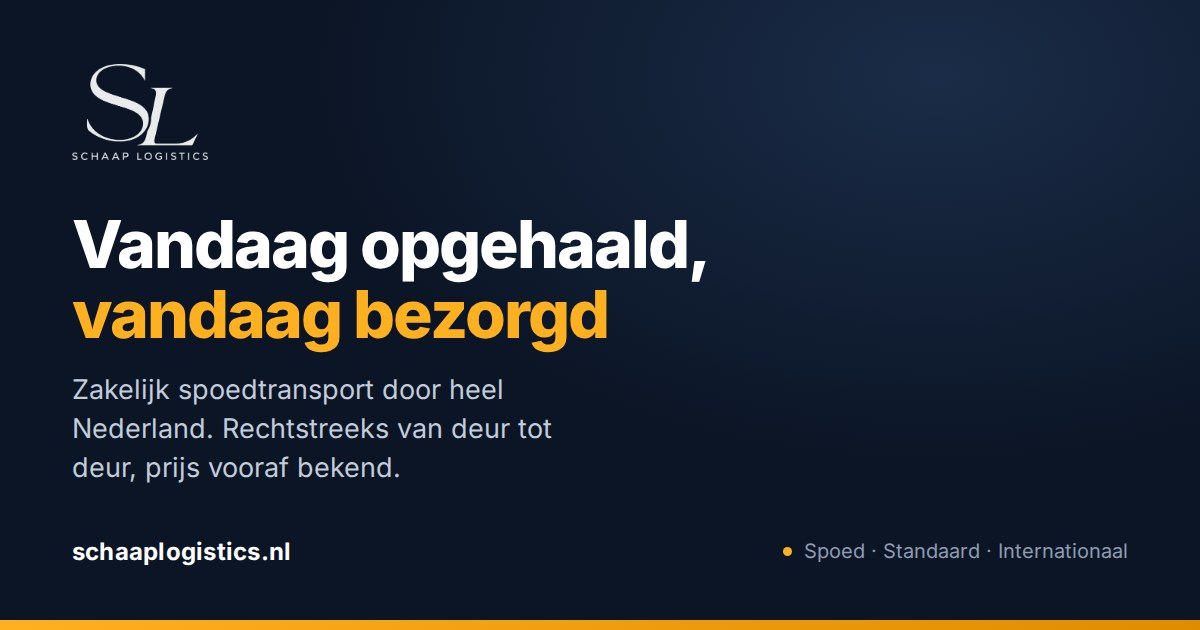
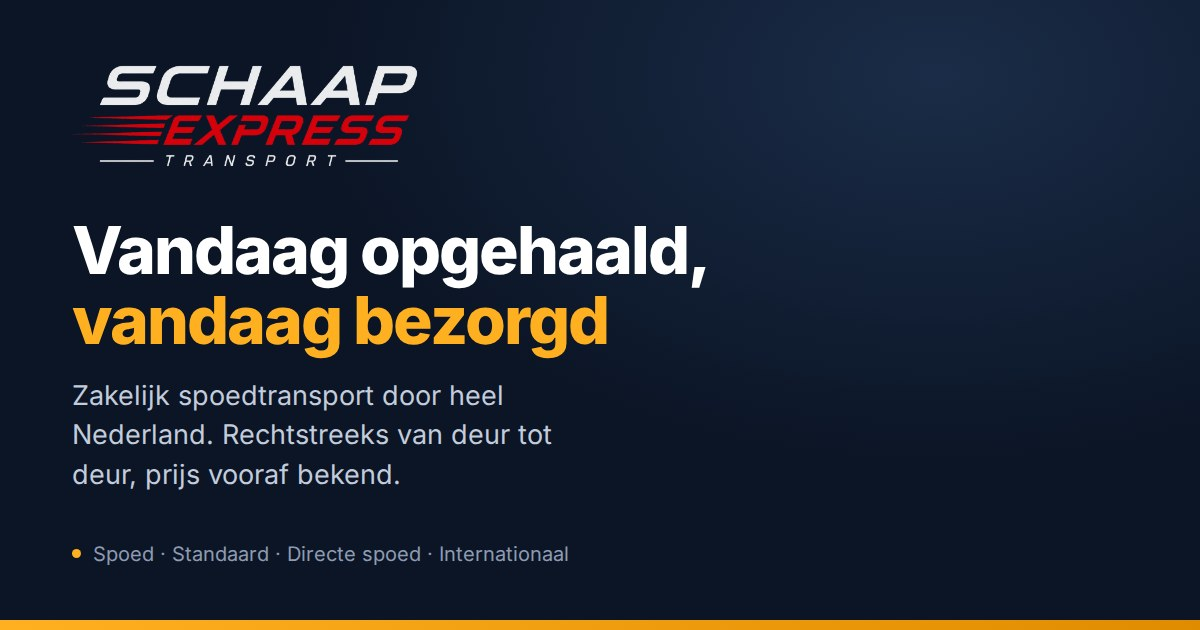
Zet het nieuwe woordmerk in de site
Het logo is geen monogram meer maar een woordmerk, en dat vraagt een andere kop.
De losse bedrijfsnaam naast het beeldmerk is weg: die stond er twee keer zodra
het logo zelf de naam draagt.

Uit het aangeleverde bestand zijn vier versies gemaakt. Het wit weghalen gaat op
dekking en niet op kleur, zodat de randen glad blijven en er geen witte rand om
de rode letters valt:

- logo-schaap-express-wit.png, het hele merk in wit, voor de voettekst en de
  twee portalen
- logo-schaap-express.png, hetzelfde donker, bovenaan de factuur
- de twee kop-versies zonder de regel TRANSPORT. In de menubalk staat het logo
  32 pixels hoog, en die regel is dan nog geen twee pixels: dat is geen tekst
  meer maar vuil. De voettekst heeft de ruimte wel en draagt het hele merk.

Het tabbladpictogram was nog het SL-monogram. Nu een witte S met de rode
snelheidsstrepen uit het logo, op het donkerblauw van de site; nagekeken op 16,
32 en 128 pixels. De bron staat ernaast zodat hij te vervangen is.

Het deelplaatje is opnieuw gemaakt met het nieuwe logo. Het adres staat er nog
niet op, want het domein ligt nog niet vast; de dienstenregel staat zolang links
onderin zodat de kaart in balans blijft.

De vier oude logobestanden zijn weg. Ze werden nergens meer gebruikt en tonen
een merk dat niet meer bestaat.

125 schermtests, 98 portaaltests, 37 klanttests en alle Worker-tests groen. Een
test keek nog naar de bedrijfsnaam als tekst in de balk; die controleert nu of
[…]

diff --git a/assets/site.css b/assets/site.css
@@ -91,10 +91,12 @@ header{
 }
 .nav{display:flex;align-items:center;gap:28px;height:72px}
 .brand{display:flex;align-items:center;gap:11px;text-decoration:none;margin-right:30px}
-/* Het beeldmerk uit de huisstijl. Wit, want header en footer zijn donker. */
-.brand__mark{height:34px;width:auto;flex:none;display:block}
-.brand__name{display:block;color:#fff;font-weight:800;font-size:1.06rem;letter-spacing:-.02em;line-height:1.15}
-.brand__sub{display:block;color:#7f90aa;font-size:.68rem;font-weight:600;letter-spacing:.09em;text-transform:uppercase}
+/* Het woordmerk uit de huisstijl, in de witte uitvoering omdat de menubalk en
+   de voettekst donker zijn. In de menubalk staat de korte versie zonder de
+   regel TRANSPORT: die is daar minder dan twee pixels hoog en dan is het geen
+   tekst meer maar vuil. De voettekst heeft de ruimte voor het hele logo. */
+.brand__mark{height:32px;width:auto;flex:none;display:block}
+footer .brand__mark{height:46px}
 /* De links staan links, naast het logo, en duwen de knoppen naar rechts. Een
    menu dat je van links naar rechts leest hoort ook links te beginnen. */
 .nav__links{display:flex;gap:4px;list-style:none;margin-right:auto}
@@ -493,26 +495,24 @@ footer a:hover{color:var(--amber)}
 @media (max-width:620px){
   .grid--3,.grid--4,.grid--2,.field-row{grid-template-columns:1fr}
   .footer__grid{grid-template-columns:1fr}
-  .brand__sub{display:none}
   .nav__phone span{display:none}
-  /* De bovenbalk is hier krap: logo, naam, telefoon en de menuknop met het
-     woord erbij. Zonder deze regels breekt de bedrijfsnaam over twee regels en
-     wordt de balk twee keer zo hoog. */
-  header .brand__name{white-space:nowrap;font-size:.95rem}
+  /* De bovenbalk is hier krap: logo, telefoon en de menuknop met het woord
+     erbij. Het woordmerk krimpt mee zodat er niets af hoeft. */
   header .brand{gap:8px}
-  header .brand__mark{height:28px}
+  header .brand__mark{height:26px}
+  footer .brand__mark{height:40px}
   .nav__toggle{padding:8px 10px;gap:5px}
   .hero{padding:56px 0 52px}
   .calc{padding:22px}
   .step{grid-template-columns:44px 1fr;gap:14px}
 }
 
-/* Een heel smalle telefoon (320px, een oude SE). Logo, naam, telefoon en de
-   menuknop met het woord erbij passen er net niet naast elkaar; met wat minder
-   marge en een iets kleinere naam wel, en dan hoeft er niets weg. */
+/* Een heel smalle telefoon (320px, een oude SE). Logo, telefoon en de menuknop
+   met het woord erbij passen er net niet naast elkaar; met wat minder marge en
+   een iets kleiner woordmerk wel, en dan hoeft er niets weg. */
 @media (max-width:360px){
   header .wrap{padding-left:12px;padding-right:12px}
-  header .brand__name{font-size:.88rem}
+  header .brand__mark{height:22px}
   header .brand{gap:7px}
   header .nav{gap:8px}
   .nav__phone{padding-left:10px;padding-right:10px}

diff --git a/assets/deelkaart-bron.html b/assets/deelkaart-bron.html
@@ -15,7 +15,7 @@ body{width:1200px;height:630px;overflow:hidden;
 body::after{content:"";position:absolute;left:0;right:0;bottom:0;height:10px;
   background:linear-gradient(90deg,#ffb020 0%,#e08c00 100%)}
 .kop{display:flex;align-items:center;gap:22px}
-.kop img{height:96px;width:auto;display:block}
+.kop img{height:104px;width:auto;display:block}
 h1{font-size:66px;line-height:1.06;letter-spacing:-.03em;font-weight:800;max-width:16ch}
 h1 em{font-style:normal;color:#ffb020}
 p.sub{margin-top:20px;font-size:27px;line-height:1.45;color:#c3ccdb;max-width:30ch;font-weight:400}
@@ -24,13 +24,14 @@ p.sub{margin-top:20px;font-size:27px;line-height:1.45;color:#c3ccdb;max-width:30
 .merk{display:flex;gap:12px;align-items:center;color:#8e9bb2;font-size:20px}
 .punt{width:9px;height:9px;border-radius:50%;background:#ffb020;display:inline-block}
 </style></head><body>
-<div class="kop"><img src="logo-volledig-wit.png" alt=""></div>
+<div class="kop"><img src="logo-schaap-express-wit.png" alt=""></div>
 <div>
   <h1>Vandaag opgehaald, <em>vandaag bezorgd</em></h1>
   <p class="sub">Zakelijk spoedtransport door heel Nederland. Rechtstreeks van deur tot deur, prijs vooraf bekend.</p>
 </div>
+<!-- Links komt straks het domein te staan; zolang dat er niet is, staat de
+     dienstenregel daar en blijft de kaart in balans. -->
 <div class="voet">
-  <span class="domein">schaaplogistics.nl</span>
-  <span class="merk"><span class="punt"></span> Spoed &middot; Standaard &middot; Internationaal</span>
+  <span class="merk"><span class="punt"></span> Spoed &middot; Standaard &middot; Directe spoed &middot; Internationaal</span>
 </div>
 </body></html>

diff --git a/aanvragen/index.html b/aanvragen/index.html
@@ -31,11 +31,7 @@
   <div class="wrap">
     <nav class="nav">
       <a href="../" class="brand">
-        <img class="brand__mark" src="../assets/logo-sl-wit.png" alt="" width="240" height="177">
-        <span>
-          <span class="brand__name">Schaap Express</span>
-          <span class="brand__sub">Spoedtransport</span>
-        </span>
+        <img class="brand__mark" src="../assets/logo-schaap-express-kop-wit.png" alt="Schaap Express Transport" width="1200" height="300">
       </a>
 
       <ul class="nav__links" id="navLinks">
@@ -289,8 +285,7 @@
     <div class="footer__grid">
       <div>
         <a href="../" class="brand" style="margin-bottom:14px">
-          <img class="brand__mark" loading="lazy" decoding="async" src="../assets/logo-sl-wit.png" alt="" width="240" height="177">
-          <span><span class="brand__name">Schaap Express</span><span class="brand__sub">Spoedtransport</span></span>
+          <img class="brand__mark" loading="lazy" decoding="async" src="../assets/logo-schaap-express-wit.png" alt="Schaap Express Transport" width="1200" height="360">
         </a>
         <p style="max-width:38ch">
           Snel, betrouwbaar en rechtstreeks geleverd. Zakelijk koeriers- en transportvervoer

diff --git a/contact/index.html b/contact/index.html
@@ -31,11 +31,7 @@
   <div class="wrap">
     <nav class="nav">
       <a href="../" class="brand">
-        <img class="brand__mark" src="../assets/logo-sl-wit.png" alt="" width="240" height="177">
-        <span>
-          <span class="brand__name">Schaap Express</span>
-          <span class="brand__sub">Spoedtransport</span>
-        </span>
+        <img class="brand__mark" src="../assets/logo-schaap-express-kop-wit.png" alt="Schaap Express Transport" width="1200" height="300">
       </a>
 
       <ul class="nav__links" id="navLinks">
@@ -165,8 +161,7 @@
     <div class="footer__grid">
       <div>
         <a href="../" class="brand" style="margin-bottom:14px">
-          <img class="brand__mark" loading="lazy" decoding="async" src="../assets/logo-sl-wit.png" alt="" width="240" height="177">
-          <span><span class="brand__name">Schaap Express</span><span class="brand__sub">Spoedtransport</span></span>
+          <img class="brand__mark" loading="lazy" decoding="async" src="../assets/logo-schaap-express-wit.png" alt="Schaap Express Transport" width="1200" height="360">
         </a>
         <p style="max-width:38ch">
           Snel, betrouwbaar en rechtstreeks geleverd. Zakelijk koeriers- en transportvervoer

diff --git a/diensten/index.html b/diensten/index.html
@@ -31,11 +31,7 @@
   <div class="wrap">
     <nav class="nav">
       <a href="../" class="brand">
-        <img class="brand__mark" src="../assets/logo-sl-wit.png" alt="" width="240" height="177">
-        <span>
-          <span class="brand__name">Schaap Express</span>
-          <span class="brand__sub">Spoedtransport</span>
-        </span>
+        <img class="brand__mark" src="../assets/logo-schaap-express-kop-wit.png" alt="Schaap Express Transport" width="1200" height="300">
       </a>
 
       <ul class="nav__links" id="navLinks">
@@ -182,8 +178,7 @@
     <div class="footer__grid">
       <div>
         <a href="../" class="brand" style="margin-bottom:14px">
-          <img class="brand__mark" loading="lazy" decoding="async" src="../assets/logo-sl-wit.png" alt="" width="240" height="177">
-          <span><span class="brand__name">Schaap Express</span><span class="brand__sub">Spoedtransport</span></span>
+          <img class="brand__mark" loading="lazy" decoding="async" src="../assets/logo-schaap-express-wit.png" alt="Schaap Express Transport" width="1200" height="360">
         </a>
         <p style="max-width:38ch">
           Snel, betrouwbaar en rechtstreeks geleverd. Zakelijk koeriers- en transportvervoer

diff --git a/privacy/index.html b/privacy/index.html
@@ -31,11 +31,7 @@
   <div class="wrap">
     <nav class="nav">
       <a href="../" class="brand">
-        <img class="brand__mark" src="../assets/logo-sl-wit.png" alt="" width="240" height="177">
-        <span>
-          <span class="brand__name">Schaap Express</span>
-          <span class="brand__sub">Spoedtransport</span>
-        </span>
+        <img class="brand__mark" src="../assets/logo-schaap-express-kop-wit.png" alt="Schaap Express Transport" width="1200" height="300">
       </a>
 
       <ul class="nav__links" id="navLinks">
@@ -156,8 +152,7 @@
     <div class="footer__grid">
       <div>
         <a href="../" class="brand" style="margin-bottom:14px">
-          <img class="brand__mark" loading="lazy" decoding="async" src="../assets/logo-sl-wit.png" alt="" width="240" height="177">
-          <span><span class="brand__name">Schaap Express</span><span class="brand__sub">Spoedtransport</span></span>
+          <img class="brand__mark" loading="lazy" decoding="async" src="../assets/logo-schaap-express-wit.png" alt="Schaap Express Transport" width="1200" height="360">
         </a>
         <p style="max-width:38ch">
           Snel, betrouwbaar en rechtstreeks geleverd. Zakelijk koeriers- en transportvervoer

diff --git a/tarieven/index.html b/tarieven/index.html
@@ -31,11 +31,7 @@
   <div class="wrap">
     <nav class="nav">
       <a href="../" class="brand">
-        <img class="brand__mark" src="../assets/logo-sl-wit.png" alt="" width="240" height="177">
-        <span>
-          <span class="brand__name">Schaap Express</span>
-          <span class="brand__sub">Spoedtransport</span>
-        </span>
+        <img class="brand__mark" src="../assets/logo-schaap-express-kop-wit.png" alt="Schaap Express Transport" width="1200" height="300">
       </a>
 
       <ul class="nav__links" id="navLinks">
@@ -192,8 +188,7 @@
     <div class="footer__grid">
       <div>
         <a href="../" class="brand" style="margin-bottom:14px">
-          <img class="brand__mark" loading="lazy" decoding="async" src="../assets/logo-sl-wit.png" alt="" width="240" height="177">
-          <span><span class="brand__name">Schaap Express</span><span class="brand__sub">Spoedtransport</span></span>
+          <img class="brand__mark" loading="lazy" decoding="async" src="../assets/logo-schaap-express-wit.png" alt="Schaap Express Transport" width="1200" height="360">
         </a>
         <p style="max-width:38ch">
           Snel, betrouwbaar en rechtstreeks geleverd. Zakelijk koeriers- en transportvervoer

diff --git a/voorwaarden/index.html b/voorwaarden/index.html
@@ -31,11 +31,7 @@
   <div class="wrap">
     <nav class="nav">
       <a href="../" class="brand">
-        <img class="brand__mark" src="../assets/logo-sl-wit.png" alt="" width="240" height="177">
-        <span>
-          <span class="brand__name">Schaap Express</span>
-          <span class="brand__sub">Spoedtransport</span>
-        </span>
+        <img class="brand__mark" src="../assets/logo-schaap-express-kop-wit.png" alt="Schaap Express Transport" width="1200" height="300">
       </a>
 
       <ul class="nav__links" id="navLinks">
@@ -214,8 +210,7 @@
     <div class="footer__grid">
       <div>
         <a href="../" class="brand" style="margin-bottom:14px">
-          <img class="brand__mark" loading="lazy" decoding="async" src="../assets/logo-sl-wit.png" alt="" width="240" height="177">
-          <span><span class="brand__name">Schaap Express</span><span class="brand__sub">Spoedtransport</span></span>
+          <img class="brand__mark" loading="lazy" decoding="async" src="../assets/logo-schaap-express-wit.png" alt="Schaap Express Transport" width="1200" height="360">
         </a>
         <p style="max-width:38ch">
           Snel, betrouwbaar en rechtstreeks geleverd. Zakelijk koeriers- en transportvervoer

diff --git a/werkwijze/index.html b/werkwijze/index.html
@@ -31,11 +31,7 @@
   <div class="wrap">
     <nav class="nav">
       <a href="../" class="brand">
-        <img class="brand__mark" src="../assets/logo-sl-wit.png" alt="" width="240" height="177">
-        <span>
-          <span class="brand__name">Schaap Express</span>
-          <span class="brand__sub">Spoedtransport</span>
-        </span>
+        <img class="brand__mark" src="../assets/logo-schaap-express-kop-wit.png" alt="Schaap Express Transport" width="1200" height="300">
       </a>
 
       <ul class="nav__links" id="navLinks">
@@ -148,8 +144,7 @@
     <div class="footer__grid">
       <div>
         <a href="../" class="brand" style="margin-bottom:14px">
-          <img class="brand__mark" loading="lazy" decoding="async" src="../assets/logo-sl-wit.png" alt="" width="240" height="177">
-          <span><span class="brand__name">Schaap Express</span><span class="brand__sub">Spoedtransport</span></span>
+          <img class="brand__mark" loading="lazy" decoding="async" src="../assets/logo-schaap-express-wit.png" alt="Schaap Express Transport" width="1200" height="360">
         </a>
         <p style="max-width:38ch">
           Snel, betrouwbaar en rechtstreeks geleverd. Zakelijk koeriers- en transportvervoer

diff --git a/index.html b/index.html
@@ -67,11 +67,7 @@
   <div class="wrap">
     <nav class="nav">
       <a href="#top" class="brand">
-        <img class="brand__mark" src="assets/logo-sl-wit.png" alt="" width="240" height="177">
-        <span>
-          <span class="brand__name">Schaap Express</span>
-          <span class="brand__sub">Spoedtransport</span>
-        </span>
+        <img class="brand__mark" src="assets/logo-schaap-express-kop-wit.png" alt="Schaap Express Transport" width="1200" height="300">
       </a>
 
       <ul class="nav__links" id="navLinks">
@@ -292,8 +288,7 @@
     <div class="footer__grid">
       <div>
         <a href="#top" class="brand" style="margin-bottom:14px">
-          <img class="brand__mark" loading="lazy" decoding="async" src="assets/logo-sl-wit.png" alt="" width="240" height="177">
-          <span><span class="brand__name">Schaap Express</span><span class="brand__sub">Spoedtransport</span></span>
+          <img class="brand__mark" loading="lazy" decoding="async" src="assets/logo-schaap-express-wit.png" alt="Schaap Express Transport" width="1200" height="360">
         </a>
         <p style="max-width:38ch">
           Snel, betrouwbaar en rechtstreeks geleverd. Zakelijk koeriers- en transportvervoer

diff --git a/404.html b/404.html
@@ -29,11 +29,7 @@
   <div class="wrap">
     <nav class="nav">
       <a href="/" class="brand">
-        <img class="brand__mark" src="/assets/logo-sl-wit.png" alt="" width="240" height="177">
-        <span>
-          <span class="brand__name">Schaap Express</span>
-          <span class="brand__sub">Spoedtransport</span>
-        </span>
+        <img class="brand__mark" src="/assets/logo-schaap-express-kop-wit.png" alt="Schaap Express Transport" width="1200" height="300">
       </a>
 
       <ul class="nav__links" id="navLinks">
@@ -77,8 +73,7 @@
     <div class="footer__grid">
       <div>
         <a href="/" class="brand" style="margin-bottom:14px">
-          <img class="brand__mark" loading="lazy" decoding="async" src="/assets/logo-sl-wit.png" alt="" width="240" height="177">
-          <span><span class="brand__name">Schaap Express</span><span class="brand__sub">Spoedtransport</span></span>
+          <img class="brand__mark" loading="lazy" decoding="async" src="/assets/logo-schaap-express-wit.png" alt="Schaap Express Transport" width="1200" height="360">
         </a>
         <p style="max-width:38ch">
           Snel, betrouwbaar en rechtstreeks geleverd. Zakelijk koeriers- en transportvervoer

diff --git a/assets/favicon-bron.html b/assets/favicon-bron.html
@@ -1,0 +1,18 @@
+<!doctype html><meta charset="utf-8">
+<style>
+  *{margin:0;padding:0;box-sizing:border-box}
+  body{width:256px;height:256px;overflow:hidden;background:#0b1526;
+       display:grid;place-items:center;position:relative;
+       font-family:Inter,-apple-system,"Segoe UI",Roboto,sans-serif}
+  /* De snelheidsstrepen uit het logo, in het rood van de huisstijl. */
+  .strepen{position:absolute;left:0;right:0;bottom:46px;height:44px}
+  .strepen i{position:absolute;left:0;height:9px;background:#d6010b;
+             transform:skewX(-16deg);border-radius:1px}
+  .strepen i:nth-child(1){top:0;width:196px}
+  .strepen i:nth-child(2){top:17px;width:150px;left:26px}
+  .strepen i:nth-child(3){top:34px;width:104px;left:52px}
+  span{font-size:178px;font-weight:800;font-style:italic;color:#fff;
+       letter-spacing:-.06em;line-height:1;transform:translateY(-22px) skewX(-13deg)}
+</style>
+<span>S</span>
+<div class="strepen"><i></i><i></i><i></i></div>
